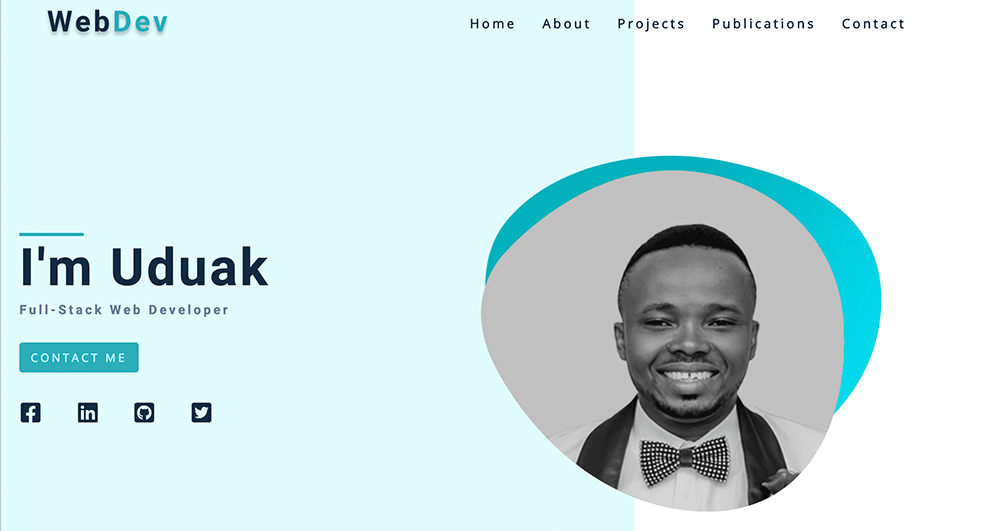
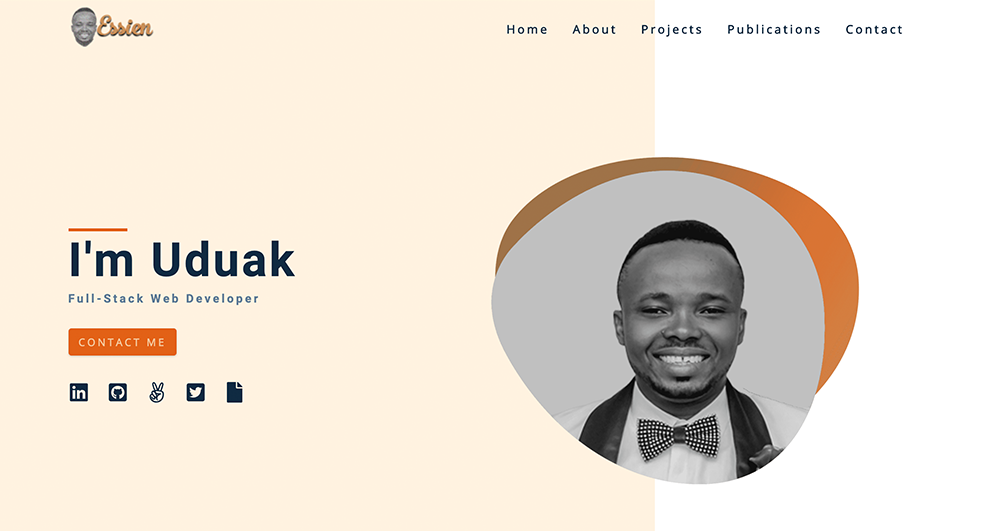
update assets files and delete unwanted files

diff --git a/src/css/main.css b/src/css/main.css
@@ -14,17 +14,17 @@ Variables
 :root {
   /* dark shades of primary color*/
   /* --clr-primary-1: hsl(43, 86%, 17%); */
-  --clr-primary-1: hsl(184, 91%, 17%);
-  --clr-primary-2: hsl(185, 84%, 25%);
-  --clr-primary-3: hsl(185, 81%, 29%);
-  --clr-primary-4: hsl(184, 77%, 34%);
-  --clr-primary-5: #2caeba;
+  --clr-primary-1: hsl(29, 91%, 45%);
+  --clr-primary-2: hsl(29, 84%, 52%);
+  --clr-primary-3: hsl(29, 81%, 45%);
+  --clr-primary-4: hsl(29, 77%, 44%);
+  --clr-primary-5: #e75d0d;
   /* lighter shades of primary color */
-  --clr-primary-6: hsl(185, 57%, 50%);
-  --clr-primary-7: hsl(184, 65%, 59%);
-  --clr-primary-8: hsl(184, 80%, 74%);
-  --clr-primary-9: hsl(185, 94%, 87%);
-  --clr-primary-10: hsl(186, 100%, 94%);
+  --clr-primary-6: hsl(32, 80%, 51%);
+  --clr-primary-7: hsl(34, 87%, 49%);
+  --clr-primary-8: hsl(34, 77%, 51%);
+  --clr-primary-9: hsl(29, 79%, 77%);
+  --clr-primary-10: hsl(35, 100%, 94%);
   /* darkest grey - used for headings */
   --clr-grey-1: hsl(209, 61%, 16%);
   --clr-grey-3: hsl(209, 34%, 30%);
